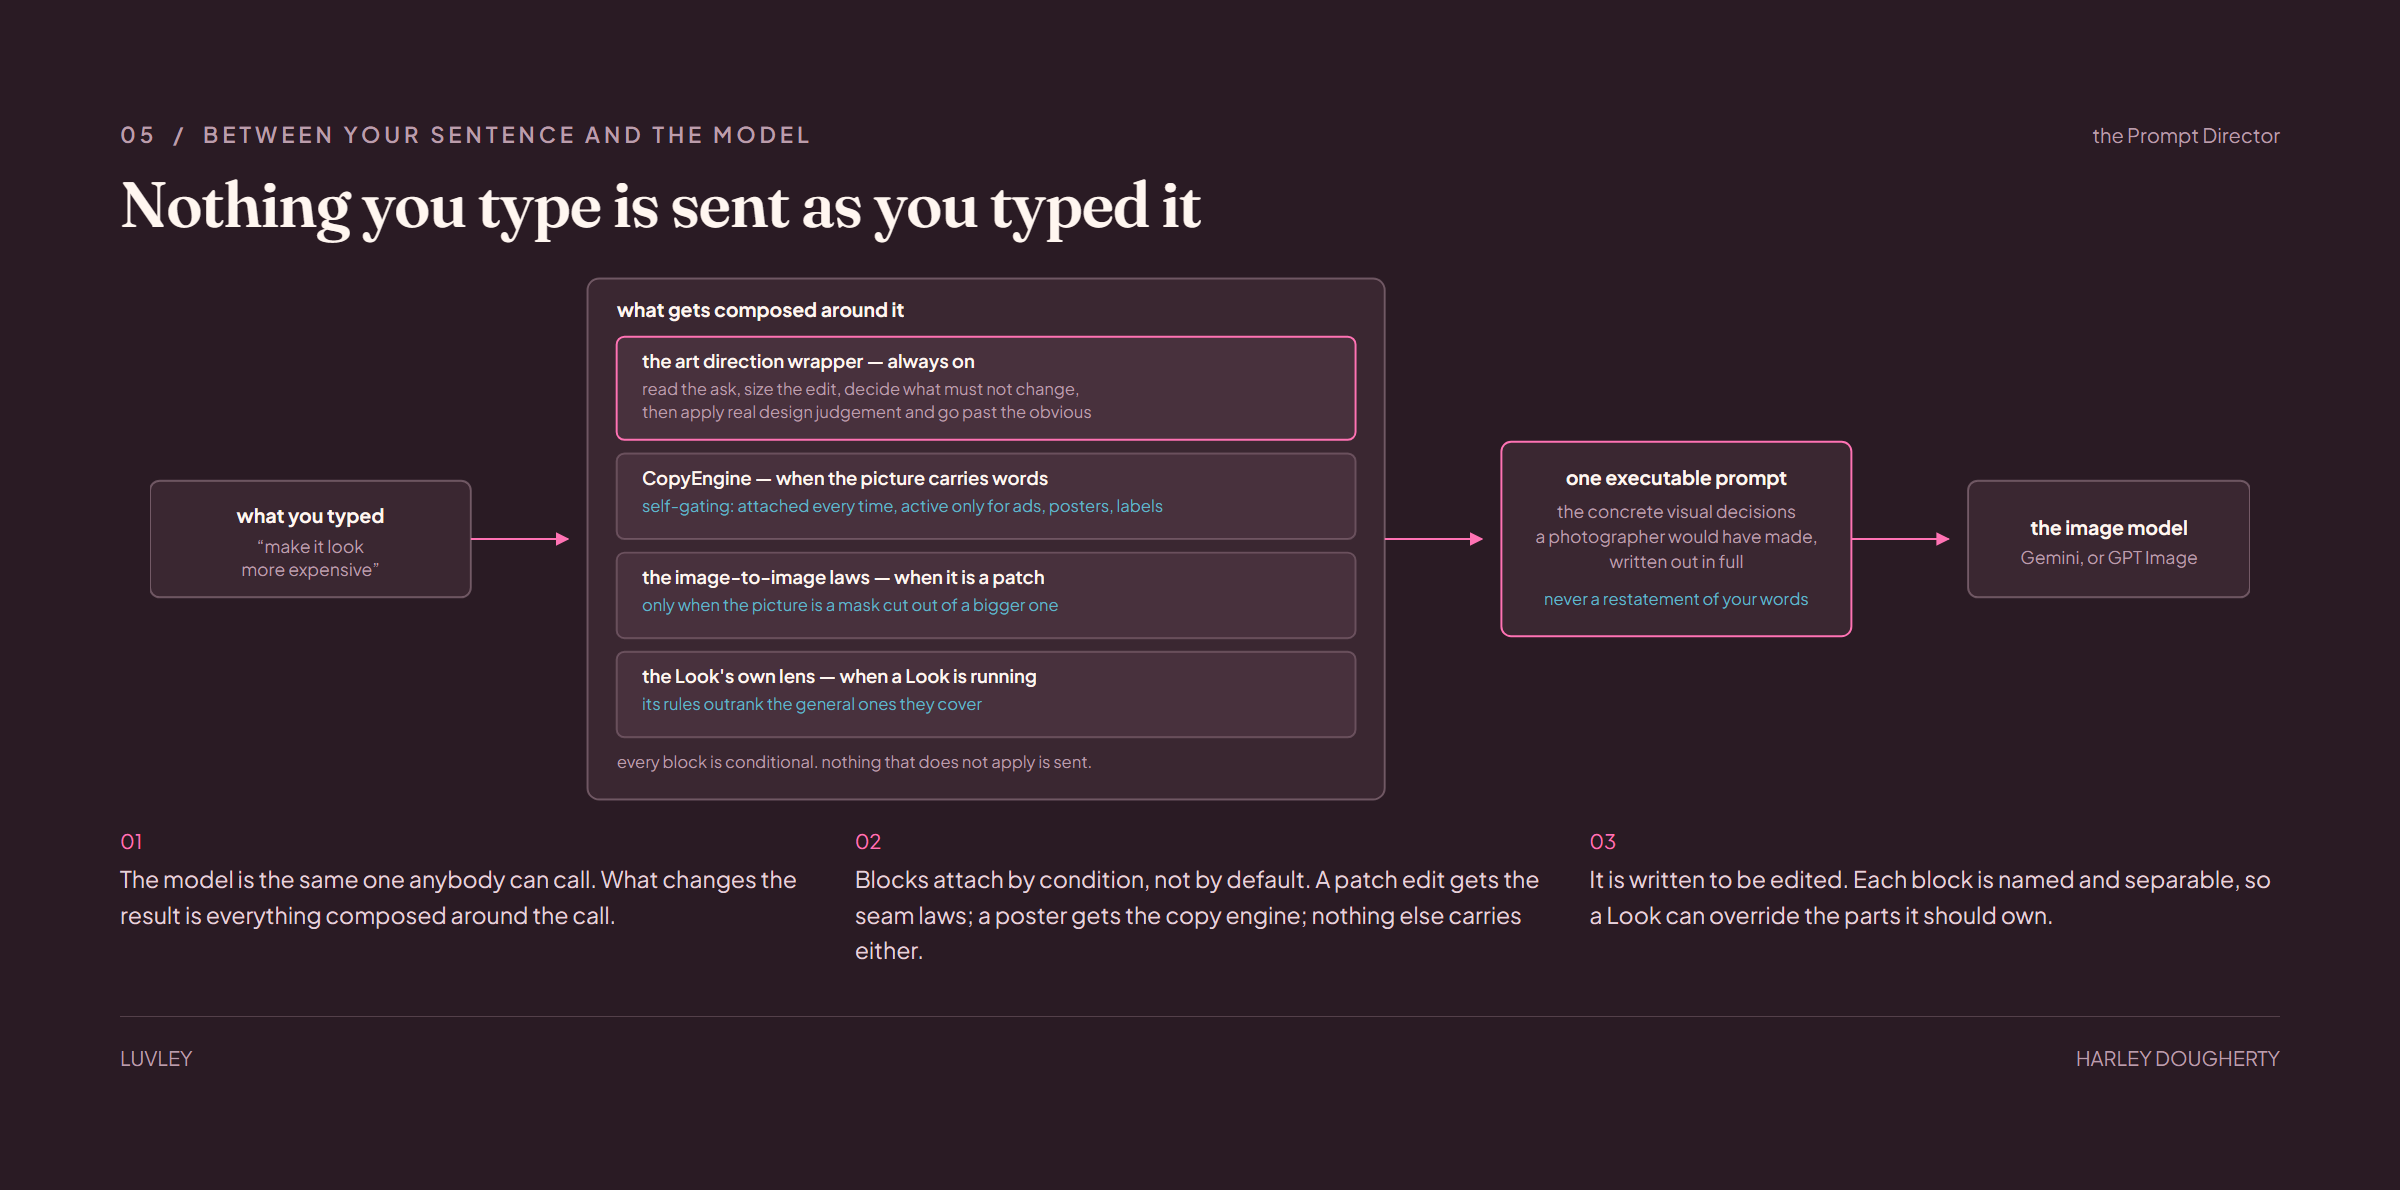
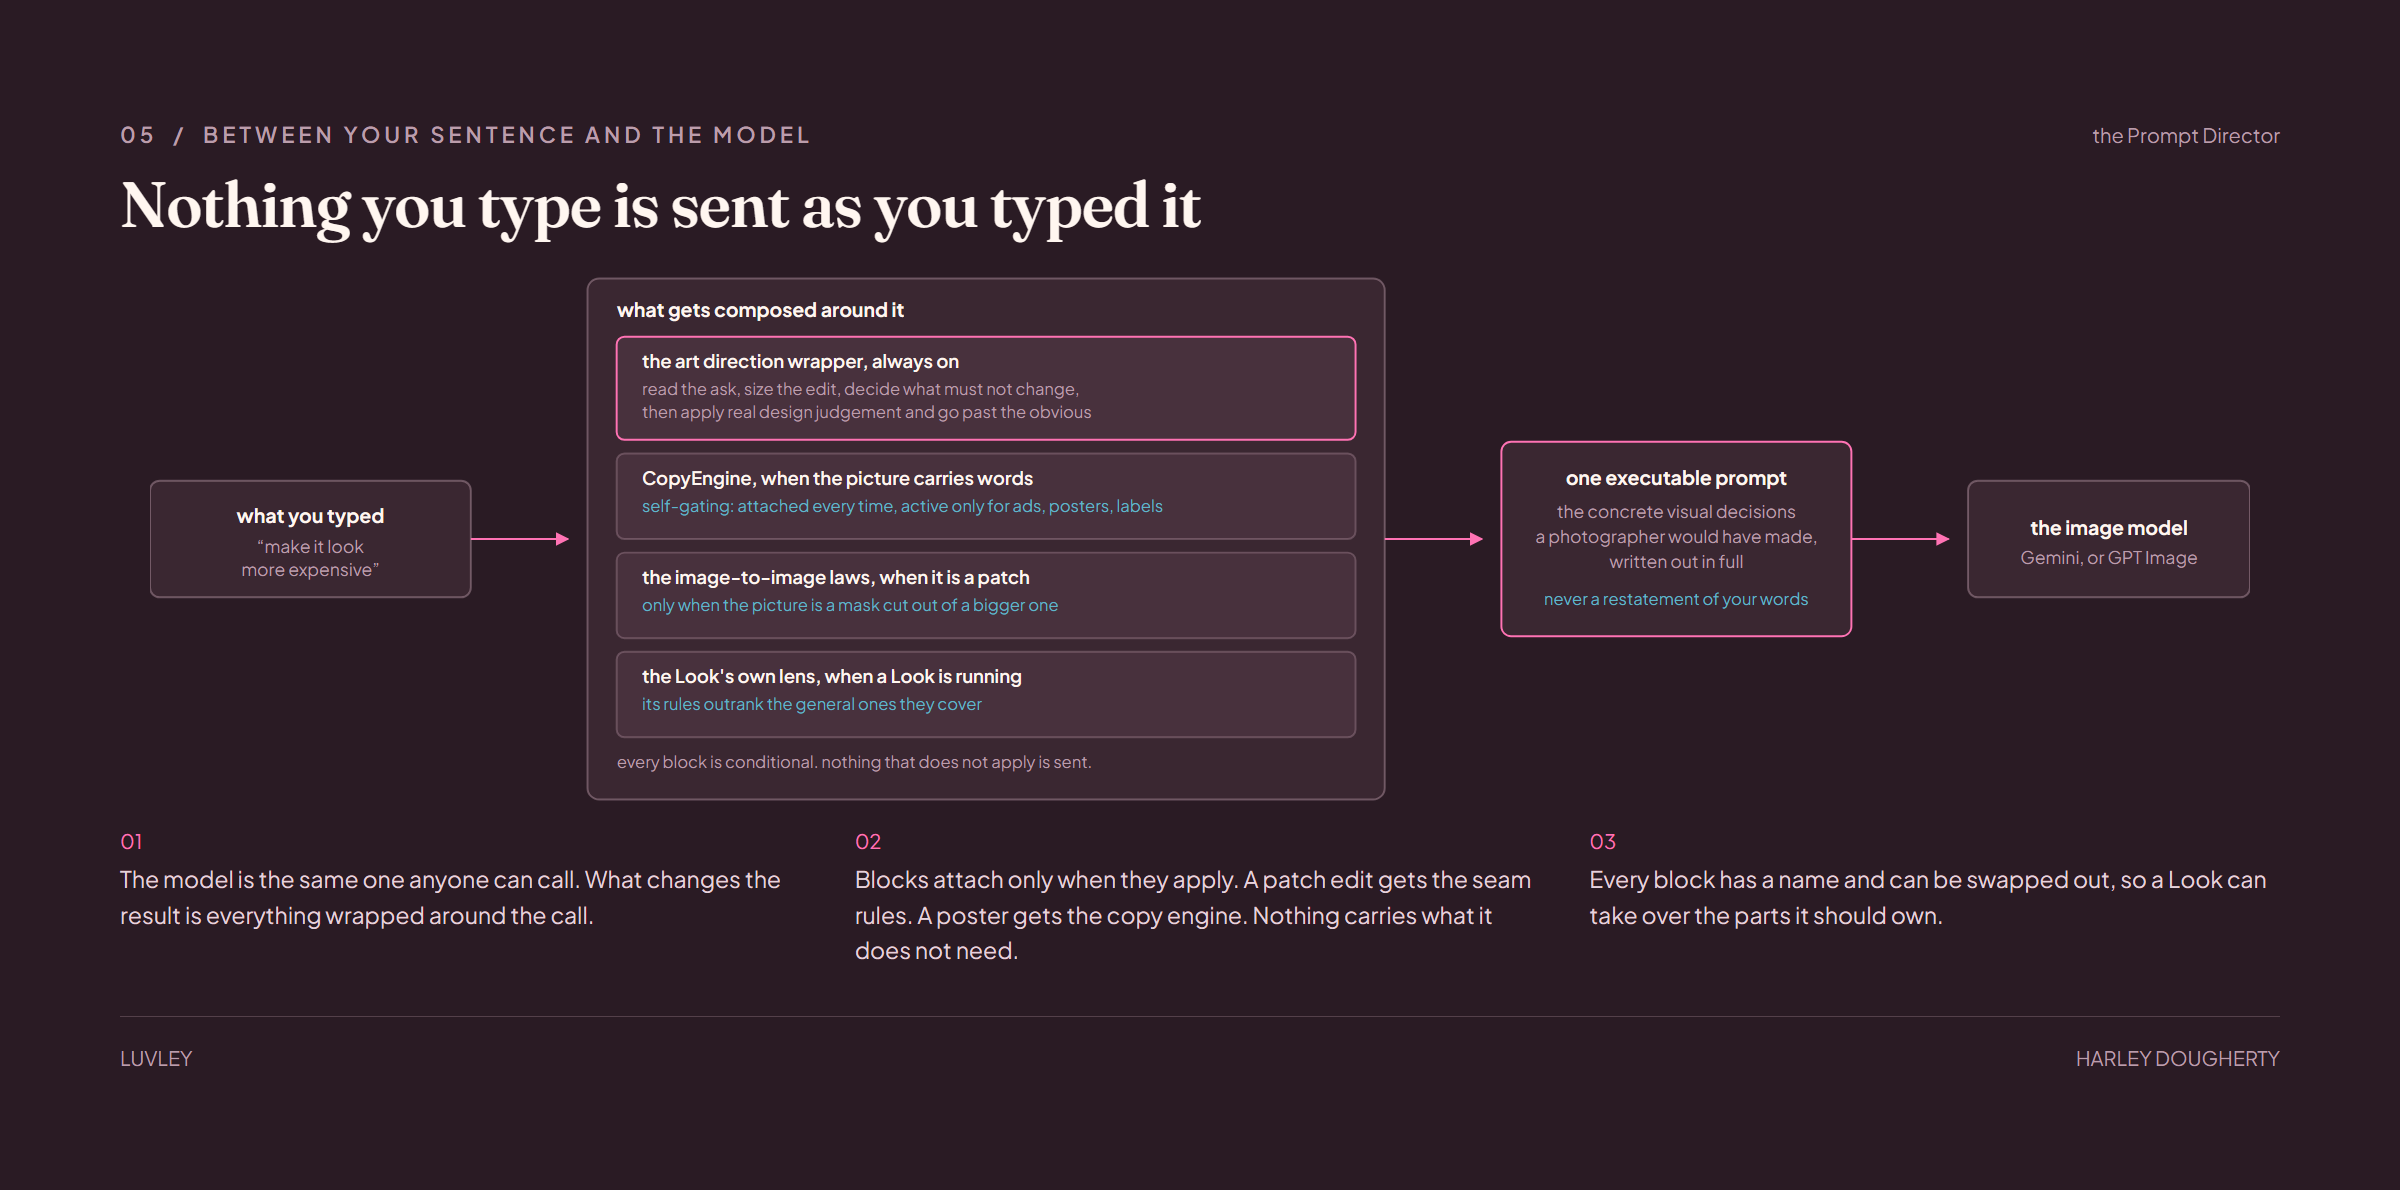
Copy pass: shorter blocks, plainer sentences, no em dashes

diff --git a/README.md b/README.md
@@ -2,7 +2,7 @@
 
 **A studio that re-shoots your product photo, then writes the ad around it.**
 
-Live at **[luvley.ai](https://luvley.ai)** — metered against a credit ledger, taking card
+Live at **[luvley.ai](https://luvley.ai)**. Metered against a credit ledger, taking card
 payments. Built and run by one person.
 
 <p align="center">
@@ -20,7 +20,7 @@ isn't mine.
 
 The rare part is everything after it. **A copywriting system built on top of image-to-image,
 that a non-technical person can actually steer.** A jeweller shooting a ring on the kitchen
-table doesn't need another prompt box — they need to fix the one thing that came out wrong
+table doesn't need another prompt box. They need to fix the one thing that came out wrong
 without losing the rest of the picture, and then they need the words to run beside it.
 
 Everything below is what I built around the model calls to make that possible.
@@ -35,7 +35,7 @@ Every one of these started as a phone photograph on a desk, a table or a carpet.
 
 ![A phone photo goes in](docs/04-a-phone-photo-goes-in.png)
 
-The product has to survive the trip unchanged. That is the hard half — the cap knurl, the
+The product has to survive the trip unchanged. That is the hard half: the cap knurl, the
 glass thickness, the brushed channel down the ring. Identity survives while everything
 around it is replaced.
 
@@ -46,7 +46,7 @@ around it is replaced.
 ![The prompt architecture](docs/05-prompt-architecture.png)
 
 Nothing you type is sent as you typed it. Four blocks compose around it, and each one is
-conditional — a patch edit gets the seam laws, a poster gets the copy engine, nothing else
+conditional. A patch edit gets the seam laws, a poster gets the copy engine, nothing else
 carries either.
 
 ![Avoiding the median](docs/06-avoiding-the-median.png)
@@ -56,7 +56,7 @@ carries either.
 ![Quick Looks](docs/07-quick-looks.png)
 
 Saved recipes. Pick your industry, pick a Look, drop in a photo. 249 of them, because a
-fashion brief and a jewellery brief need genuinely different language — fashion 82,
+fashion brief and a jewellery brief need genuinely different language. Fashion 82,
 jewellery 67, product 33, lighting 30, beauty 28, art 9.
 
 Some are whole shots that run alone. Others are pieces that stack, so one Look's set can sit
@@ -66,11 +66,11 @@ under another Look's light.
 <tr>
 <td width="50%" align="center">
   <img src="docs/video/reel-interior.gif" width="100%" alt="An empty room staged as a warm living room, then the coffee table swapped twice"><br>
-  <sub><em>Spaces — an empty listing, staged</em></sub>
+  <sub><em>Spaces: an empty listing, staged</em></sub>
 </td>
 <td width="50%" align="center">
   <img src="docs/video/reel-fashion.gif" width="100%" alt="A fitting-room sample photo becomes a sunlit coastal terrace shoot"><br>
-  <sub><em>Fashion — a fitting-room photo, on location</em></sub>
+  <sub><em>Fashion: a fitting-room photo, on location</em></sub>
 </td>
 </tr>
 </table>
@@ -82,8 +82,8 @@ under another Look's light.
 ![Pieces, not presets](docs/08-quick-blocks.png)
 
 A Look isn't a preset in a dropdown. Some are whole shots meant to run alone; the rest are
-pieces, and pieces combine. Every piece belongs to a slot — Studio, Casting, Sets, Lighting,
-Camera & FX — and that's what keeps a stack coherent: one Look's set can sit under another
+pieces, and pieces combine. Every piece belongs to a slot: Studio, Casting, Sets, Lighting,
+Camera & FX. That is what keeps a stack coherent. one Look's set can sit under another
 Look's light because the two are answering different questions.
 
 You can write your own too. Save a block of art direction under a name and it stacks like
@@ -102,21 +102,21 @@ Look declares its own five angles instead of asking a model to be interesting.
 ![The studio](docs/10-the-studio.png)
 
 One canvas. The picture is the hero and the tools sit beside it. Every control is a thing a
-designer would want to change — not a setting.
+designer would want to change, not a setting.
 
 ## Fixing one thing
 
 ![Refinement](docs/11-refinement.png)
 
 Paint a mask over the part that's wrong and describe only that. Asking for a whole new image
-instead gives you a different bottle, a different backdrop and a different light — you'd be
+instead gives you a different bottle, a different backdrop and a different light. You would be
 gambling the parts you liked to fix the one you didn't.
 
 <p align="center">
   <img src="docs/video/reel-ring.gif" width="420" alt="A mask sweeps the ring finger and a referenced ring lands on it">
 </p>
 
-<p align="center"><em>Drop in a reference, mask the finger, and the ring lands on it — the rest of the photograph untouched.</em></p>
+<p align="center"><em>Drop in a reference, mask the finger, and the ring lands on it, the rest of the photograph untouched.</em></p>
 
 ### Three laws a patch has to obey
 
@@ -124,7 +124,7 @@ gambling the parts you liked to fix the one you didn't.
 
 These go out with every refinement, and each one exists because of a specific way the edit
 goes wrong. The one I'm proudest of: *mood words describe content, never pixels.* A sadder
-expression means changed brows, eyes and mouth — not cooler or darker pixels.
+expression means changed brows, eyes and mouth, not cooler or darker pixels.
 
 ## Two versions, no losing one
 
@@ -145,7 +145,7 @@ them off and on to see exactly what changed.
   <img src="docs/video/reel-layers.gif" width="620" alt="Refinement layers toggling on one at a time, a sketch resolving into a finished render">
 </p>
 
-<p align="center"><em>Background, clean linework, staff design, head redesign, colour, polish — each its own layer, each switchable.</em></p>
+<p align="center"><em>Background, clean linework, staff design, head redesign, colour, polish. Each its own layer, each switchable.</em></p>
 
 ## Finishing
 
@@ -170,7 +170,7 @@ product; expanding invents the room around it instead.
 
 ![Crop](docs/16-crop.png)
 
-And when cropping *is* the right answer, the aspect list is the one a designer expects —
+And when cropping *is* the right answer, the aspect list is the one a designer expects:
 square, 4:3 through 21:9, 3:4 through 9:21.
 
 ## Turn it into an ad
@@ -185,7 +185,7 @@ carrying a real aspect ratio.
 
 ![The design is its own control](docs/19-ad-design-control.png)
 
-Eighty-three layouts in six families, and every tile is a render rather than a wireframe —
+Eighty-three layouts in six families, and every tile is a render rather than a wireframe.
 what you pick is what you get. The wording and the layout are decided by different things on
 purpose, so once the copy is written you can change only how it looks.
 
@@ -212,7 +212,7 @@ licenses it, and it drops the line when nobody did.
 
 The end-to-end tests drive the real server, and that server holds real image-model keys in
 production. So the test environment isn't a copy of a developer's with the dangerous keys
-removed — it starts as an empty object, and only the variables Node needs to boot are copied
+removed. It starts as an empty object, and only the variables Node needs to boot are copied
 in. A list of keys to *delete* would have failed the first time somebody added a provider.
 
 ---
@@ -224,9 +224,9 @@ self-contained and are the ones worth reading:
 
 | File | What it is |
 | --- | --- |
-| [`inpaintBrushMath.ts`](code/inpaintBrushMath.ts) | Pressure, taper, hardness and spacing — the arithmetic behind the brush |
+| [`inpaintBrushMath.ts`](code/inpaintBrushMath.ts) | Pressure, taper, hardness and spacing. The arithmetic behind the brush |
 | [`inpaintRectMath.ts`](code/inpaintRectMath.ts) | The dirty-rectangle algebra that makes undo cheap |
-| [`route-table-fingerprint.mjs`](code/route-table-fingerprint.mjs) | Boots the real server, walks the router in order and hashes every handler — how a 5,300-line file was split into fifteen pieces and *proved* unchanged |
+| [`route-table-fingerprint.mjs`](code/route-table-fingerprint.mjs) | Boots the real server, walks the router in order and hashes every handler. How a 5,300-line file was split into fifteen pieces and *proved* unchanged |
 | [`fleet.mjs`](code/fleet.mjs) | The orchestrator I built to run coding agents in parallel, one per isolated worktree |
 | [`ui-evidence.mjs`](code/ui-evidence.mjs) | Renders before/after evidence sheets, and exits non-zero if a row proves nothing |
 
